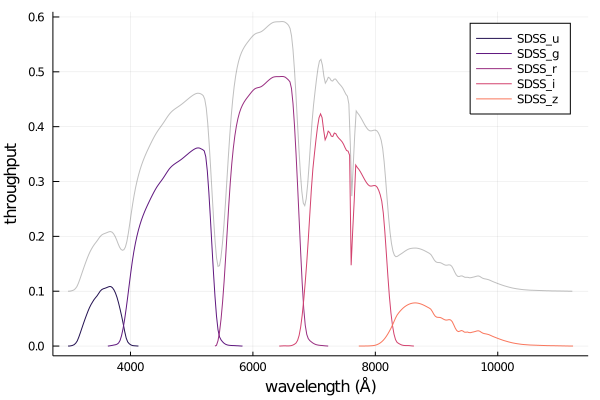
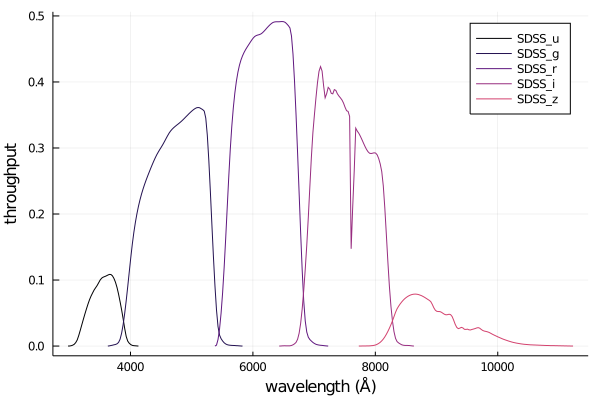
remove addition and switch to subtype abstract vector

diff --git a/README.md b/README.md
@@ -18,15 +18,13 @@ using PhotometricFilters
 using PhotometricFilters: SDSS_u, SDSS_g, SDSS_r, SDSS_i, SDSS_z
 
 filts = [SDSS_u(), SDSS_g(), SDSS_r(), SDSS_i(), SDSS_z()]
-combined = sum(filts)
 ```
 
 plotting works out of the box
 
 ```julia
-using Plots
-plot(wave(combined), throughput(combined) .+ 0.1, label="")
-plot!(filts)
+using Plots, ColorSchemes
+plot(filts, palette=palette(:magma, 8))
 ```
 
 ![](sdss.png)
